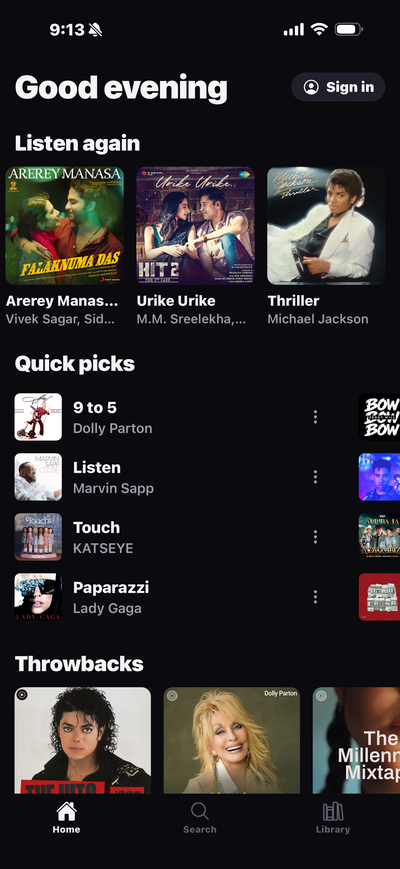
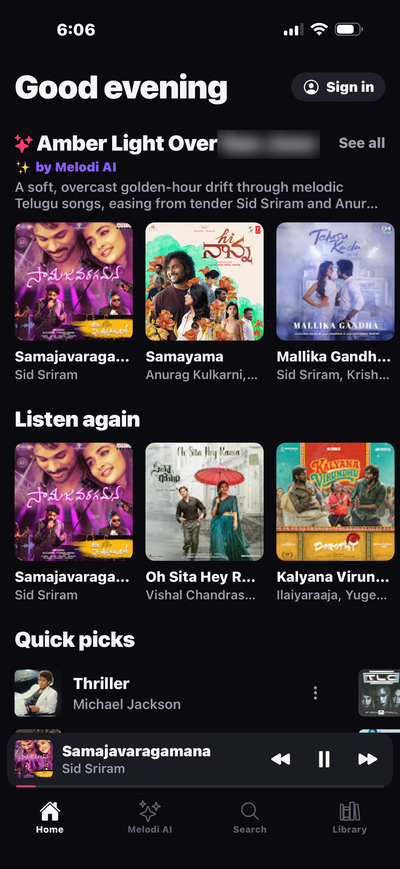
README: add Melodi AI and Library screenshots, update Home
New screenshots of the Melodi AI tab, Home with the Melodi row, and Library. The city name is blurred in each.

diff --git a/README.md b/README.md
@@ -10,12 +10,16 @@ React Native · Expo · TypeScript · Swift · MIT
 
 <table>
   <tr>
+    <td align="center"><img src="docs/screenshots/melodi-ai.png" width="200" alt="Melodi AI" /><br/><sub>Melodi AI</sub></td>
     <td align="center"><img src="docs/screenshots/home.png" width="200" alt="Home" /><br/><sub>Home</sub></td>
-    <td align="center"><img src="docs/screenshots/search.png" width="200" alt="Search" /><br/><sub>Search</sub></td>
     <td align="center"><img src="docs/screenshots/player.png" width="200" alt="Now playing" /><br/><sub>Now playing</sub></td>
   </tr>
   <tr>
+    <td align="center"><img src="docs/screenshots/search.png" width="200" alt="Search" /><br/><sub>Search</sub></td>
+    <td align="center"><img src="docs/screenshots/library.png" width="200" alt="Library" /><br/><sub>Library</sub></td>
     <td align="center"><img src="docs/screenshots/lock-screen.png" width="200" alt="Lock screen" /><br/><sub>Lock screen</sub></td>
+  </tr>
+  <tr>
     <td align="center"><img src="docs/screenshots/sign-in.png" width="200" alt="Sign in" /><br/><sub>Sign in</sub></td>
     <td align="center"><img src="docs/screenshots/dynamic-island.png" width="240" alt="Dynamic Island" /><br/><sub>Dynamic Island</sub></td>
   </tr>
